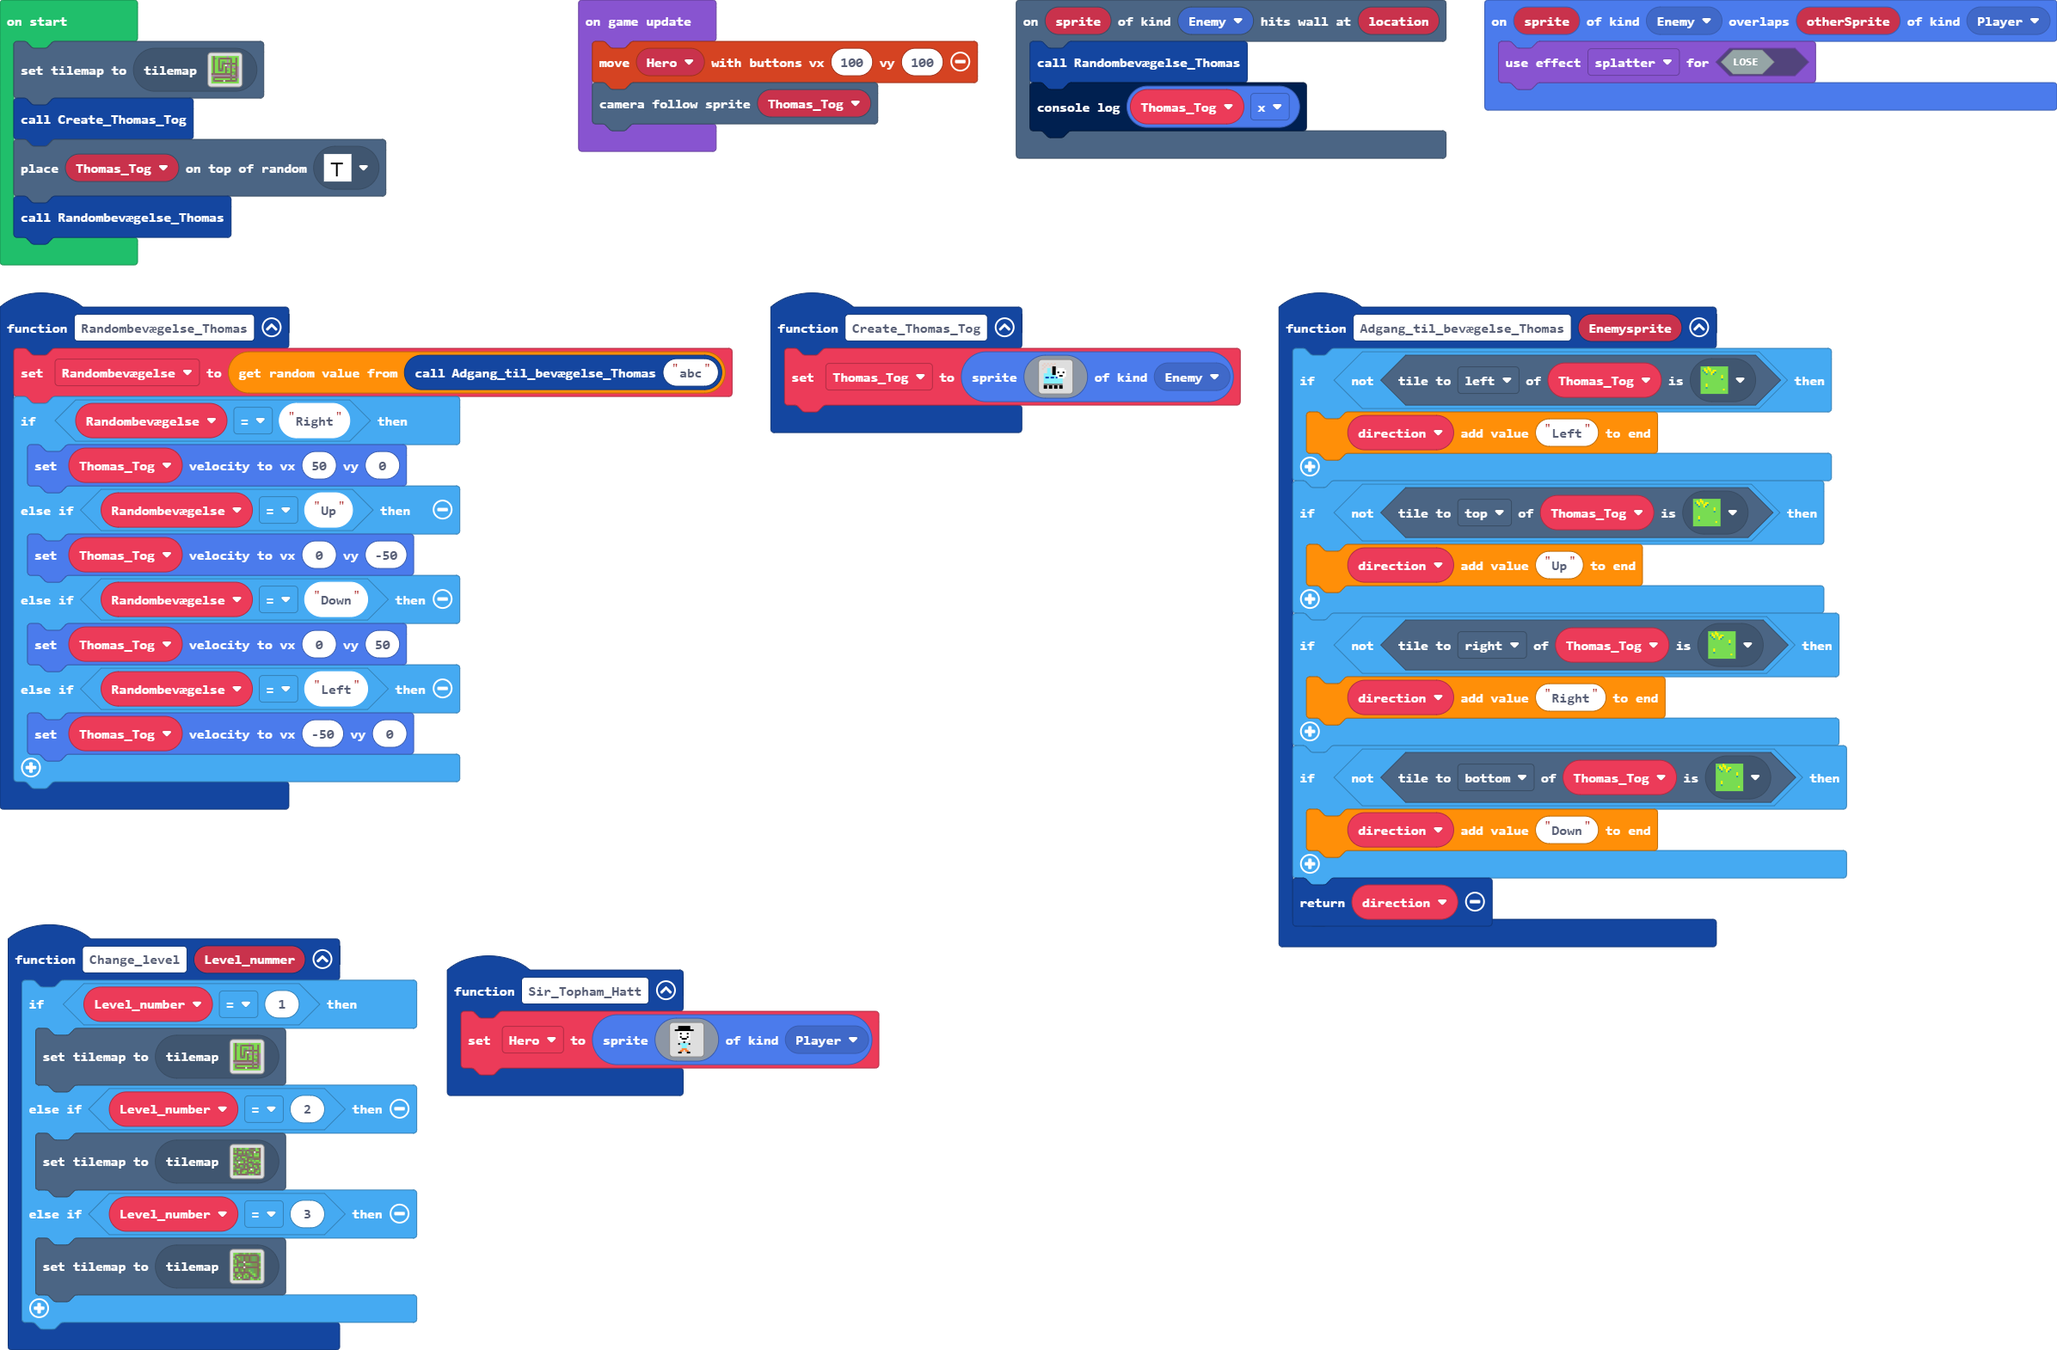
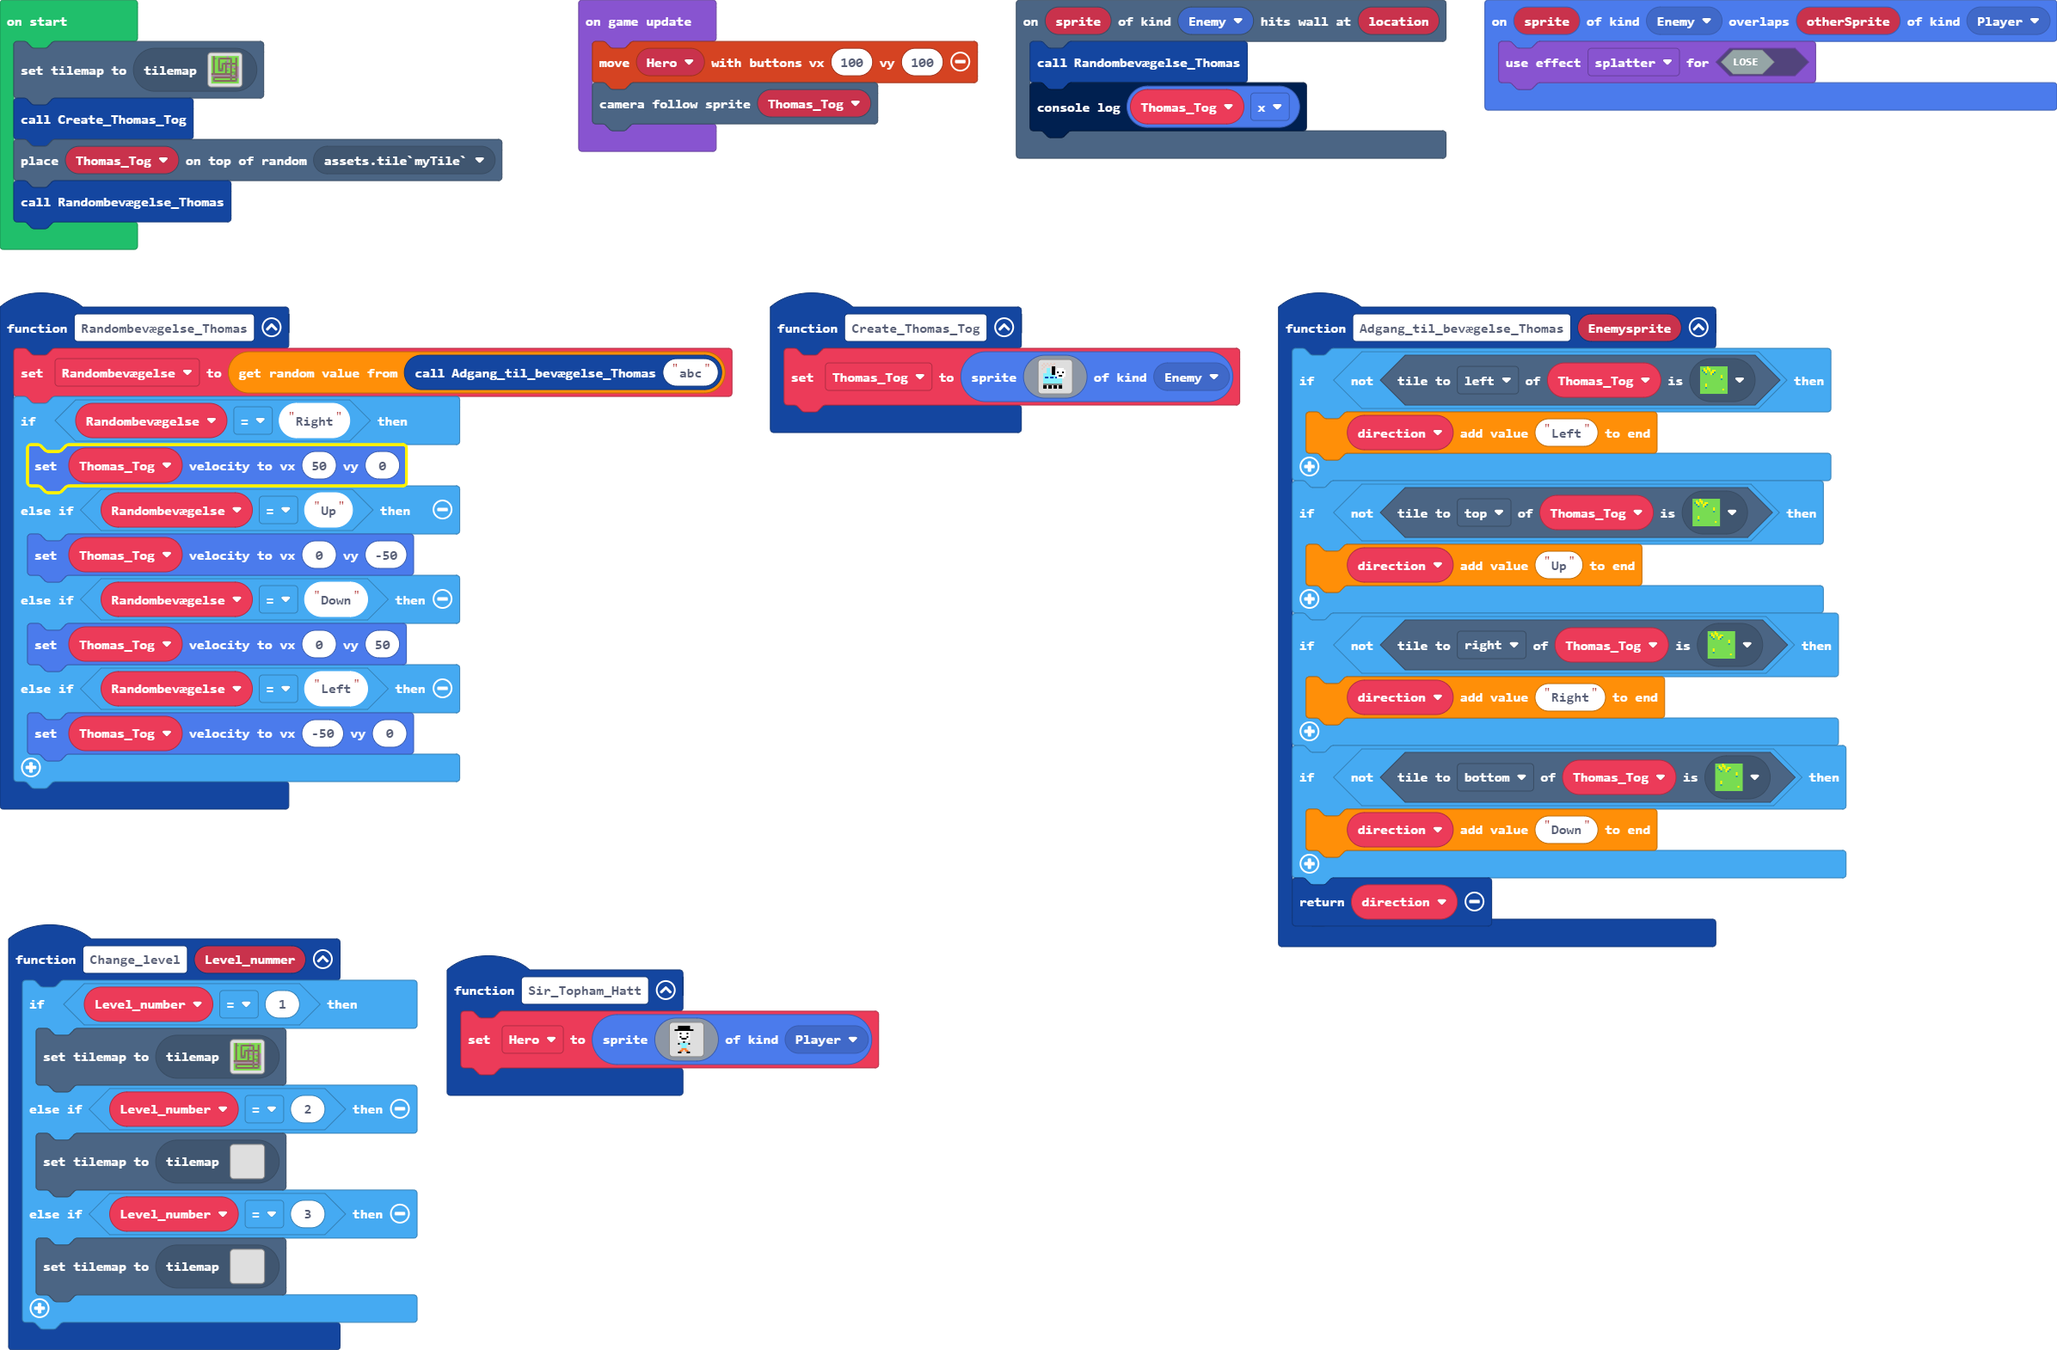
Update main.blocks, main.ts, tilemap.g.jres, tilemap.g.ts

diff --git a/tilemap.g.ts b/tilemap.g.ts
@@ -32,15 +32,11 @@ namespace myTiles {
     export const tile14 = image.ofBuffer(hex``);
     //% fixedInstance jres blockIdentity=images._tile
     export const tile15 = image.ofBuffer(hex``);
-    //% fixedInstance jres blockIdentity=images._tile
-    export const tile16 = image.ofBuffer(hex``);
-    //% fixedInstance jres blockIdentity=images._tile
-    export const tile17 = image.ofBuffer(hex``);
 
     helpers._registerFactory("tilemap", function(name: string) {
         switch(helpers.stringTrim(name)) {
-            case "level2":
-            case "level2":return tiles.createTilemap(hex`1000100000000000000000000000000000000000000000000000000000000000000000000000000000000000000000000000000000000000000000000000000000000000000000000000000000000000000000000000000000000000000000000000000000000000000000000000000000000000000000000000000000000000000000000000000000000000000000000000000000000000000000000000000000000000000000000000000000000000000000000000000000000000000000000000000000000000000000000000000000000000000000000000000000000000000000000000000000000000000000000000000000000000000000000000000000000000`, img`
+            case "level4":
+            case "level4":return tiles.createTilemap(hex`1000100000000000000000000000000000000000000000000000000000000000000000000000000000000000000000000000000000000000000000000000000000000000000000000000000000000000000000000000000000000000000000000000000000000000000000000000000000000000000000000000000000000000000000000000000000000000000000000000000000000000000000000000000000000000000000000000000000000000000000000000000000000000000000000000000000000000000000000000000000000000000000000000000000000000000000000000000000000000000000000000000000000000000000000000000000000000`, img`
 . . . . . . . . . . . . . . . . 
 . . . . . . . . . . . . . . . . 
 . . . . . . . . . . . . . . . . 
@@ -58,27 +54,8 @@ namespace myTiles {
 . . . . . . . . . . . . . . . . 
 . . . . . . . . . . . . . . . . 
 `, [myTiles.transparency16], TileScale.Sixteen);
-            case "level5":
-            case "level5":return tiles.createTilemap(hex`1000100000000000000000000000000000000000000000000000000000000000000000000000000000000000000000000000000000000000000000000000000000000000000000000000000000000000000000000000000000000000000000000000000000000000000000000000000000000000000000000000000000000000000000000000000000000000000000000000000000000000000000000000000000000000000000000000000000000000000000000000000000000000000000000000000000000000000000000000000000000000000000000000000000000000000000000000000000000000000000000000000000000000000000000000000000000000`, img`
-. . . . . . . . . . . . . . . . 
-. . . . . . . . . . . . . . . . 
-. . . . . . . . . . . . . . . . 
-. . . . . . . . . . . . . . . . 
-. . . . . . . . . . . . . . . . 
-. . . . . . . . . . . . . . . . 
-. . . . . . . . . . . . . . . . 
-. . . . . . . . . . . . . . . . 
-. . . . . . . . . . . . . . . . 
-. . . . . . . . . . . . . . . . 
-. . . . . . . . . . . . . . . . 
-. . . . . . . . . . . . . . . . 
-. . . . . . . . . . . . . . . . 
-. . . . . . . . . . . . . . . . 
-. . . . . . . . . . . . . . . . 
-. . . . . . . . . . . . . . . . 
-`, [myTiles.transparency16], TileScale.Sixteen);
-            case "level6":
-            case "level6":return tiles.createTilemap(hex`1000100000000000000000000000000000000000000000000000000000000000000000000000000000000000000000000000000000000000000000000000000000000000000000000000000000000000000000000000000000000000000000000000000000000000000000000000000000000000000000000000000000000000000000000000000000000000000000000000000000000000000000000000000000000000000000000000000000000000000000000000000000000000000000000000000000000000000000000000000000000000000000000000000000000000000000000000000000000000000000000000000000000000000000000000000000000000`, img`
+            case "level7":
+            case "level7":return tiles.createTilemap(hex`1000100000000000000000000000000000000000000000000000000000000000000000000000000000000000000000000000000000000000000000000000000000000000000000000000000000000000000000000000000000000000000000000000000000000000000000000000000000000000000000000000000000000000000000000000000000000000000000000000000000000000000000000000000000000000000000000000000000000000000000000000000000000000000000000000000000000000000000000000000000000000000000000000000000000000000000000000000000000000000000000000000000000000000000000000000000000000`, img`
 . . . . . . . . . . . . . . . . 
 . . . . . . . . . . . . . . . . 
 . . . . . . . . . . . . . . . . 
@@ -97,7 +74,7 @@ namespace myTiles {
 . . . . . . . . . . . . . . . . 
 `, [myTiles.transparency16], TileScale.Sixteen);
             case "level3":
-            case "level3":return tiles.createTilemap(hex`1000100000000000000000000000000000000000000000000000000000000000000000000000000000000000000000000000000000000000000000000000000000000000000000000000000000000000000000000000000000000000000000000000000000000000000000000000000000000000000000000000000000000000000000000000000000000000000000000000000000000000000000000000000000000000000000000000000000000000000000000000000000000000000000000000000000000000000000000000000000000000000000000000000000000000000000000000000000000000000000000000000000000000000000000000000000000000`, img`
+            case "level3":return tiles.createTilemap(hex`1000100000000000000000000000000000000000020202020202020202020202020202020201010101010101010101010101010202020202020202020102020202020202020101010101010101010101010101020202020202020202010202020202020202010101010101010101020202020202020202020202020201010101030101020000000000000002010202020202020200000000020202020102020202020000000000000201010101010101010200000000000002010202010202020202000000000000020202020102000000000000000000000000000201020000000000000000000000000002020200000000000000000000000000000000000000000000`, img`
 . . . . . . . . . 2 2 2 2 2 2 . 
 2 2 2 2 2 2 2 2 2 2 2 2 2 2 2 2 
 2 . . . . . . . . . . . . . . 2 
@@ -114,161 +91,9 @@ namespace myTiles {
 . . . . . . . 2 . 2 . . . . . . 
 . . . . . . . 2 2 2 . . . . . . 
 . . . . . . . . . . . . . . . . 
-`, [myTiles.transparency16], TileScale.Sixteen);
-            case "level8":
-            case "level8":return tiles.createTilemap(hex`1000100000000000000000000000000000000000000000000000000000000000000000000000000000000000000000000000000000000000000000000000000000000000000000000000000000000000000000000000000000000000000000000000000000000000000000000000000000000000000000000000000000000000000000000000000000000000000000000000000000000000000000000000000000000000000000000000000000000000000000000000000000000000000000000000000000000000000000000000000000000000000000000000000000000000000000000000000000000000000000000000000000000000000000000000000000000000`, img`
-. . . . . . . . . . . . . . . . 
-. . . . . . . . . . . . . . . . 
-. . . . . . . . . . . . . . . . 
-. . . . . . . . . . . . . . . . 
-. . . . . . . . . . . . . . . . 
-. . . . . . . . . . . . . . . . 
-. . . . . . . . . . . . . . . . 
-. . . . . . . . . . . . . . . . 
-. . . . . . . . . . . . . . . . 
-. . . . . . . . . . . . . . . . 
-. . . . . . . . . . . . . . . . 
-. . . . . . . . . . . . . . . . 
-. . . . . . . . . . . . . . . . 
-. . . . . . . . . . . . . . . . 
-. . . . . . . . . . . . . . . . 
-. . . . . . . . . . . . . . . . 
-`, [myTiles.transparency16], TileScale.Sixteen);
-            case "level9":
-            case "level9":return tiles.createTilemap(hex`1000100000000000000000000000000000000000000000000000000000000000000000000000000000000000000000000000000000000000000000000000000000000000000000000000000000000000000000000000000000000000000000000000000000000000000000000000000000000000000000000000000000000000000000000000000000000000000000000000000000000000000000000000000000000000000000000000000000000000000000000000000000000000000000000000000000000000000000000000000000000000000000000000000000000000000000000000000000000000000000000000000000000000000000000000000000000000`, img`
-. . . . . . . . . . . . . . . . 
-. . . . . . . . . . . . . . . . 
-. . . . . . . . . . . . . . . . 
-. . . . . . . . . . . . . . . . 
-. . . . . . . . . . . . . . . . 
-. . . . . . . . . . . . . . . . 
-. . . . . . . . . . . . . . . . 
-. . . . . . . . . . . . . . . . 
-. . . . . . . . . . . . . . . . 
-. . . . . . . . . . . . . . . . 
-. . . . . . . . . . . . . . . . 
-. . . . . . . . . . . . . . . . 
-. . . . . . . . . . . . . . . . 
-. . . . . . . . . . . . . . . . 
-. . . . . . . . . . . . . . . . 
-. . . . . . . . . . . . . . . . 
-`, [myTiles.transparency16], TileScale.Sixteen);
-            case "level10":
-            case "level10":return tiles.createTilemap(hex`1000100000000000000000000000000000000000000000000000000000000000000000000000000000000000000000000000000000000000000000000000000000000000000000000000000000000000000000000000000000000000000000000000000000000000000000000000000000000000000000000000000000000000000000000000000000000000000000000000000000000000000000000000000000000000000000000000000000000000000000000000000000000000000000000000000000000000000000000000000000000000000000000000000000000000000000000000000000000000000000000000000000000000000000000000000000000000`, img`
-. . . . . . . . . . . . . . . . 
-. . . . . . . . . . . . . . . . 
-. . . . . . . . . . . . . . . . 
-. . . . . . . . . . . . . . . . 
-. . . . . . . . . . . . . . . . 
-. . . . . . . . . . . . . . . . 
-. . . . . . . . . . . . . . . . 
-. . . . . . . . . . . . . . . . 
-. . . . . . . . . . . . . . . . 
-. . . . . . . . . . . . . . . . 
-. . . . . . . . . . . . . . . . 
-. . . . . . . . . . . . . . . . 
-. . . . . . . . . . . . . . . . 
-. . . . . . . . . . . . . . . . 
-. . . . . . . . . . . . . . . . 
-. . . . . . . . . . . . . . . . 
-`, [myTiles.transparency16], TileScale.Sixteen);
-            case "level11":
-            case "level11":return tiles.createTilemap(hex`1000100000000000000000000000000000000000000000000000000000000000000000000000000000000000000000000000000000000000000000000000000000000000000000000000000000000000000000000000000000000000000000000000000000000000000000000000000000000000000000000000000000000000000000000000000000000000000000000000000000000000000000000000000000000000000000000000000000000000000000000000000000000000000000000000000000000000000000000000000000000000000000000000000000000000000000000000000000000000000000000000000000000000000000000000000000000000`, img`
-. . . . . . . . . . . . . . . . 
-. . . . . . . . . . . . . . . . 
-. . . . . . . . . . . . . . . . 
-. . . . . . . . . . . . . . . . 
-. . . . . . . . . . . . . . . . 
-. . . . . . . . . . . . . . . . 
-. . . . . . . . . . . . . . . . 
-. . . . . . . . . . . . . . . . 
-. . . . . . . . . . . . . . . . 
-. . . . . . . . . . . . . . . . 
-. . . . . . . . . . . . . . . . 
-. . . . . . . . . . . . . . . . 
-. . . . . . . . . . . . . . . . 
-. . . . . . . . . . . . . . . . 
-. . . . . . . . . . . . . . . . 
-. . . . . . . . . . . . . . . . 
-`, [myTiles.transparency16], TileScale.Sixteen);
-            case "level12":
-            case "level12":return tiles.createTilemap(hex`1000100000000000000000000000000000000000000000000000000000000000000000000000000000000000000000000000000000000000000000000000000000000000000000000000000000000000000000000000000000000000000000000000000000000000000000000000000000000000000000000000000000000000000000000000000000000000000000000000000000000000000000000000000000000000000000000000000000000000000000000000000000000000000000000000000000000000000000000000000000000000000000000000000000000000000000000000000000000000000000000000000000000000000000000000000000000000`, img`
-. . . . . . . . . . . . . . . . 
-. . . . . . . . . . . . . . . . 
-. . . . . . . . . . . . . . . . 
-. . . . . . . . . . . . . . . . 
-. . . . . . . . . . . . . . . . 
-. . . . . . . . . . . . . . . . 
-. . . . . . . . . . . . . . . . 
-. . . . . . . . . . . . . . . . 
-. . . . . . . . . . . . . . . . 
-. . . . . . . . . . . . . . . . 
-. . . . . . . . . . . . . . . . 
-. . . . . . . . . . . . . . . . 
-. . . . . . . . . . . . . . . . 
-. . . . . . . . . . . . . . . . 
-. . . . . . . . . . . . . . . . 
-. . . . . . . . . . . . . . . . 
-`, [myTiles.transparency16], TileScale.Sixteen);
-            case "level13":
-            case "level13":return tiles.createTilemap(hex`1000100000000000000000000000000000000000000000000000000000000000000000000000000000000000000000000000000000000000000000000000000000000000000000000000000000000000000000000000000000000000000000000000000000000000000000000000000000000000000000000000000000000000000000000000000000000000000000000000000000000000000000000000000000000000000000000000000000000000000000000000000000000000000000000000000000000000000000000000000000000000000000000000000000000000000000000000000000000000000000000000000000000000000000000000000000000000`, img`
-. . . . . . . . . . . . . . . . 
-. . . . . . . . . . . . . . . . 
-. . . . . . . . . . . . . . . . 
-. . . . . . . . . . . . . . . . 
-. . . . . . . . . . . . . . . . 
-. . . . . . . . . . . . . . . . 
-. . . . . . . . . . . . . . . . 
-. . . . . . . . . . . . . . . . 
-. . . . . . . . . . . . . . . . 
-. . . . . . . . . . . . . . . . 
-. . . . . . . . . . . . . . . . 
-. . . . . . . . . . . . . . . . 
-. . . . . . . . . . . . . . . . 
-. . . . . . . . . . . . . . . . 
-. . . . . . . . . . . . . . . . 
-. . . . . . . . . . . . . . . . 
-`, [myTiles.transparency16], TileScale.Sixteen);
-            case "Level 2 Tilemap":
[1 lines of base64/hex data omitted]
-. . . . . . . . . . . . . . . . 
-. . . . . . . . . . . . . . . . 
-. . . . . . . . . . . . . . . . 
-. . . . . . . . . . . . . . . . 
-. . . . . . . . . . . . . . . . 
-. . . . . . . . . . . . . . . . 
-. . . . . . . . . . . . . . . . 
-. . . . . . . . . . . . . . . . 
-. . . . . . . . . . . . . . . . 
-. . . . . . . . . . . . . . . . 
-. . . . . . . . . . . . . . . . 
-. . . . . . . . . . . . . . . . 
-. . . . . . . . . . . . . . . . 
-. . . . . . . . . . . . . . . . 
-. . . . . . . . . . . . . . . . 
-. . . . . . . . . . . . . . . . 
-`, [myTiles.transparency16,myTiles.tile1,myTiles.tile2,myTiles.tile3,myTiles.tile4,myTiles.tile5,myTiles.tile6,myTiles.tile8,myTiles.tile9,myTiles.tile10,myTiles.tile11,myTiles.tile12,myTiles.tile13,myTiles.tile14,myTiles.tile15,sprites.castle.tileGrass1,myTiles.tile16,myTiles.tile17], TileScale.Sixteen);
-            case "level0":
[1 lines of base64/hex data omitted]
-2 2 2 2 2 2 2 2 2 2 2 2 2 2 2 2 
-2 . . . . . . . . . . . . . . 2 
-2 . 2 2 2 2 . 2 2 . 2 2 2 2 . 2 
-2 . . 2 2 2 . 2 2 . 2 2 2 2 . 2 
-2 2 . 2 2 2 . 2 2 . 2 2 2 2 . 2 
-2 2 . . . . . . . . . . . . . 2 
-2 2 . 2 2 2 . 2 2 2 2 2 2 2 . 2 
-2 2 . 2 2 2 . 2 2 2 2 2 2 2 . 2 
-. . . . . . . . . . . . . . . 2 
-. 2 2 . 2 2 . 2 2 2 2 2 2 2 . 2 
-. 2 2 . 2 2 . 2 2 2 2 2 2 2 . 2 
-. . . . . . . . . . 2 2 2 2 . 2 
-2 . 2 2 2 . 2 2 2 . 2 2 2 2 . 2 
-2 . 2 2 2 . 2 2 2 . . . 2 2 . 2 
-2 . . . . . 2 2 2 . 2 . . . . 2 
-2 2 2 2 2 . . . . . 2 2 2 2 2 2 
-`, [myTiles.transparency16,myTiles.tile1,myTiles.tile2,myTiles.tile3,myTiles.tile4,myTiles.tile5,myTiles.tile6,myTiles.tile8,myTiles.tile9,myTiles.tile10,myTiles.tile11,myTiles.tile14,myTiles.tile15,sprites.castle.tileGrass1,myTiles.tile16,myTiles.tile17], TileScale.Sixteen);
+`, [myTiles.transparency16,sprites.castle.tilePath5,sprites.builtin.forestTiles0,sprites.castle.tilePath2], TileScale.Sixteen);
             case "level1":
[2 lines of base64/hex data omitted]
 2 . 2 2 2 2 2 2 2 . 2 2 2 2 2 2 
 2 . 2 2 . . . . . . . . 2 2 . 2 
 2 . 2 2 . 2 2 2 2 2 2 . 2 2 . 2 
@@ -285,7 +110,7 @@ namespace myTiles {
 2 . 2 2 2 2 2 2 2 2 2 . 2 2 . 2 
 2 . . . . . . . . . . . . . . 2 
 2 2 2 2 2 2 2 2 2 2 2 2 2 2 2 2 
-`, [myTiles.transparency16,myTiles.tile1,myTiles.tile2,myTiles.tile3,myTiles.tile4,myTiles.tile5,myTiles.tile6,myTiles.tile7,myTiles.tile8,sprites.castle.tileGrass1,myTiles.tile9,myTiles.tile11,myTiles.tile13,sprites.vehicle.roadHorizontal,sprites.vehicle.roadVertical,sprites.vehicle.roadTurn3,sprites.vehicle.roadTurn2,sprites.vehicle.roadIntersection4,myTiles.tile14,myTiles.tile15,myTiles.tile16,myTiles.tile17], TileScale.Sixteen);
+`, [myTiles.transparency16,myTiles.tile1,myTiles.tile2,myTiles.tile3,myTiles.tile4,myTiles.tile5,myTiles.tile6,myTiles.tile7,myTiles.tile8,sprites.castle.tileGrass1,myTiles.tile9,myTiles.tile11,myTiles.tile13,sprites.vehicle.roadHorizontal,sprites.vehicle.roadVertical,sprites.vehicle.roadTurn3,sprites.vehicle.roadTurn2,sprites.vehicle.roadIntersection4,myTiles.tile14,myTiles.tile15], TileScale.Sixteen);
         }
         return null;
     })
@@ -323,10 +148,6 @@ namespace myTiles {
             case "tile14":return tile14;
             case "Hus":
             case "tile15":return tile15;
-            case "myTile":
-            case "tile16":return tile16;
-            case "myTile0":
-            case "tile17":return tile17;
         }
         return null;
     })

diff --git a/main.ts b/main.ts
@@ -15,9 +15,9 @@ function Change_level (Level_nummer: string) {
     if (Level_number == 1) {
         tiles.setCurrentTilemap(tilemap`level1`)
     } else if (Level_number == 2) {
-        tiles.setCurrentTilemap(tilemap`Level 2 Tilemap`)
+        tiles.setCurrentTilemap(tilemap`level4`)
     } else if (Level_number == 3) {
-        tiles.setCurrentTilemap(tilemap`level0`)
+        tiles.setCurrentTilemap(tilemap`level7`)
     }
 }
 function Adgang_til_bevægelse_Thomas (Enemysprite: string) {
@@ -52,7 +52,7 @@ function Create_Thomas_Tog () {
 let Hero: Sprite = null
 let Randombevægelse = ""
 let Thomas_Tog: Sprite = null
-tiles.setCurrentTilemap(tilemap`level1`)
+tiles.setCurrentTilemap(tilemap`Level 2 Tilemap`)
 Create_Thomas_Tog()
 tiles.placeOnRandomTile(Thomas_Tog, assets.tile`myTile`)
 Randombevægelse_Thomas()
